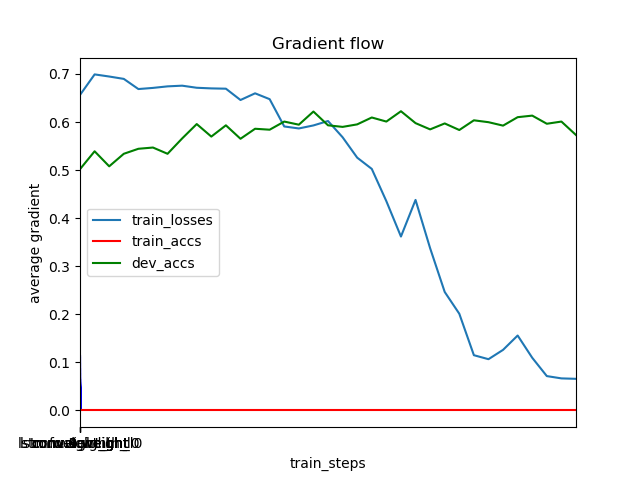
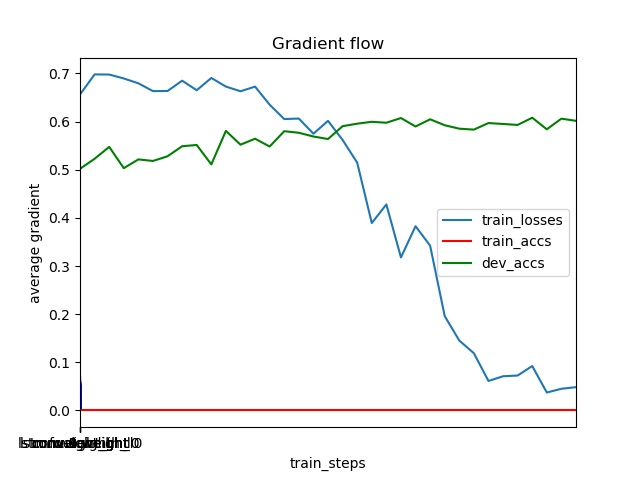
added some analysis code to model;

diff --git a/speech_model/model.py b/speech_model/model.py
@@ -13,8 +13,8 @@ from torch.utils import data
 import torch
 import psutil
 import os
-from utils import UttDataset,plot_grad_flow,plot_results
-from evaluate import evaluate,logit_evaluate
+from utils import UttDataset,plot_grad_flow,plot_results,UttDatasetWithId
+from evaluate import evaluate,logit_evaluate,logit_evaluate_lengths,baseline_with_len
 import matplotlib.pyplot as plt
 import random
 import numpy as np
@@ -33,6 +33,7 @@ dev_per = 0.2
 print_every = 500
 eval_every = None
 VERBOSE = False
+LENGTH_ANALYSIS = False
 
 train_params = {'batch_size': 8,
                      'shuffle': True,
@@ -175,8 +176,14 @@ train_ids = all_ids[:int(len(all_ids)*train_per)]
 dev_ids = all_ids[int(len(all_ids)*train_per):int(len(all_ids)*(train_per+dev_per))]
 test_ids = all_ids[int(len(all_ids)*(train_per+dev_per)):]
 
+
 trainset = UttDataset(train_ids,feat_dict,labels_dict,pad_len)
-devset = UttDataset(dev_ids,feat_dict,labels_dict,pad_len)
+if LENGTH_ANALYSIS:
+    devset = UttDatasetWithId(dev_ids, feat_dict, labels_dict, pad_len)
+else:
+    devset = UttDataset(dev_ids,feat_dict,labels_dict,pad_len)
+
+
 
 traingen = data.DataLoader(trainset, **train_params)
 
@@ -200,7 +207,13 @@ print('done')
 
 print('Baseline eval....')
 
-logit_evaluate(devset,eval_params,model,device)
+baseline_with_len(devset,eval_params)
+
+
+if LENGTH_ANALYSIS:
+    logit_evaluate_lengths(devset, eval_params, model, device)
+else:
+    logit_evaluate(devset, eval_params, model, device)
 
 print('done')
 
@@ -216,7 +229,7 @@ curr_preds = 0
 
 print('Training model ...')
 for epoch in range(epochs):
-    for batch, labels in traingen:
+    for batch,labels in traingen:
         batch,labels = batch.to(device),labels.to(device)
         if not batch.shape[0] < train_params['batch_size']:
             model.zero_grad()
@@ -225,18 +238,15 @@ for epoch in range(epochs):
             if VERBOSE:
                 print('output shape: ',output.shape)
                 print('labels shape: ',labels.shape)
-                print('output: ',output.view(1))
-                #print('output: ', output[:,1:].squeeze())
+                print('output: ',output.cpu().detach().squeeze())
                 print('true labels: ',labels.float())
-            #print('output: ', output[:, :, 1:].squeeze())
+            #print('output: ', output.cpu().detach().squeeze())
             #import pdb;pdb.set_trace()
             pred_labels = np.where(np.array(output.cpu().detach().view(train_params['batch_size']))>0.5,1,0)
             pred_ones += np.sum(pred_labels)
             num_preds += labels.shape[0]
             curr_pred_ones += pred_ones
             curr_preds += num_preds
-
-            #loss = criterion(output[:,:,1:].squeeze(),labels.float()) # With RNN
 
             loss = criterion(output.view(train_params['batch_size']), labels.float())  # With RNN
             loss.backward()
@@ -260,7 +270,10 @@ for epoch in range(epochs):
                 plt_losses.append(train_loss)
                 plt_dummy.append(0)
                 #plt.show()
-                plt_acc.append(logit_evaluate(devset,eval_params,model,device))
+                if LENGTH_ANALYSIS:
+                    plt_acc.append(logit_evaluate_lengths(devset, eval_params, model, device))
+                else:
+                    plt_acc.append(logit_evaluate(devset, eval_params, model, device))
             if eval_every:
                 if timestep % eval_every == 1 and not timestep==1:
                     logit_evaluate(devset,eval_params,model,device)

diff --git a/speech_model/evaluate.py b/speech_model/evaluate.py
@@ -2,6 +2,8 @@ from utils import UttDataset
 from torch.utils import data
 import torch
 import numpy as np
+import pandas as pd
+from random import randint
 
 def logit_evaluate(dataset,dataloader_params,model,device,recurrent=True):
     true_pos_pred = 0
@@ -23,13 +25,53 @@ def logit_evaluate(dataset,dataloader_params,model,device,recurrent=True):
     print('Accuracy: ',acc)
     return acc
 
-def logit_evaluate_lengths(dataset,dataloader_params,model,device,recurrent=True):
+
+def baseline_with_len(dataset,dataloader_params,utterance_file='../data/utterances.txt'):
+    # To evaluate if it's using length as a signal, load a dict of the
+    # keys to the lengths of the utterances (in num of tokens)
+
+    utterance_df = pd.read_csv(utterance_file,sep='\t',header=None)
+    keys = utterance_df[1].tolist()
+    tokens = utterance_df[2].tolist()
+    tok_len = [len(line.split()) for line in tokens]
+    key_to_len = dict(zip(keys,tok_len))
+
+    true_pos_pred = 0
+    total_pred = 0
+
+    dataloader = data.DataLoader(dataset, **dataloader_params)
+    for id,x,y in dataloader:
+        id = id[0]
+        if key_to_len[id] > 1:
+            pred = randint(0,1)
+        else:
+            pred = 0
+        total_pred += 1
+        if pred == y.item():
+            true_pos_pred += 1
+        acc = true_pos_pred/total_pred
+    print('Baseline performance with length considered:',acc)
+
+def logit_evaluate_lengths(dataset,dataloader_params,model,device,recurrent=True,utterance_file='../data/utterances.txt'):
     true_pos_pred = 0
     total_pred = 0
     dataloader = data.DataLoader(dataset, **dataloader_params)
-    with torch.no_grad():
-        for x,y in dataloader:
+    # To evaluate if it's using length as a signal, load a dict of the
+    # keys to the lengths of the utterances (in num of tokens)
+    utterance_df = pd.read_csv(utterance_file,sep='\t',header=None)
+    keys = utterance_df[1].tolist()
+    tokens = utterance_df[2].tolist()
+    tok_len = [len(line.split()) for line in tokens]
+    key_to_len = dict(zip(keys,tok_len))
+    # Two dictionaries for calculating distribution of predictions
+    # by length: one with just the zero preds, one with all preds. Key is length.
+    zero_pred_per_len = {}
+    pred_per_len = {}
 
+    with torch.no_grad():
+        for id, x, y in dataloader:
+            id = id[0]
+            utt_len = key_to_len[id]
             x,y = x.to(device),y.to(device)
             if recurrent:
                 hidden = model.init_hidden(dataloader_params['batch_size'])
@@ -40,6 +82,24 @@ def logit_evaluate_lengths(dataset,dataloader_params,model,device,recurrent=True
             total_pred += 1
             if prediction == y.item():
                 true_pos_pred += 1
+            if prediction == 0:
+                if utt_len in zero_pred_per_len:
+                    zero_pred_per_len[utt_len] += 1
+                else:
+                    zero_pred_per_len[utt_len] = 1
+            if utt_len in pred_per_len:
+                pred_per_len[utt_len] += 1
+            else:
+                pred_per_len[utt_len] = 1
+
+
+    percent_pred_per_len = {}
+    for l in pred_per_len:
+        if l in zero_pred_per_len:
+            percent_pred_per_len[l] = zero_pred_per_len[l]/pred_per_len[l]
+        else:
+            percent_pred_per_len[l] = 0
+    print("Percent of single-token utterances labeled zero: ",percent_pred_per_len[1])
     acc = true_pos_pred/total_pred
     print('Accuracy: ',acc)
     return acc

diff --git a/speech_model/utils.py b/speech_model/utils.py
@@ -50,6 +50,14 @@ class UttDataset(data.Dataset):
         y = self.label_dict[id]
         return X, y
 
+class UttDatasetWithId(UttDataset):
+    def __getitem__(self, index):
+        id = self.list_ids[index]
+        X = self.pad_left(self.utt_dict[id])
+        # X = self.utt_dict[id]
+        y = self.label_dict[id]
+        return id, X, y
+
 
 def plot_grad_flow(named_parameters):
     '''
